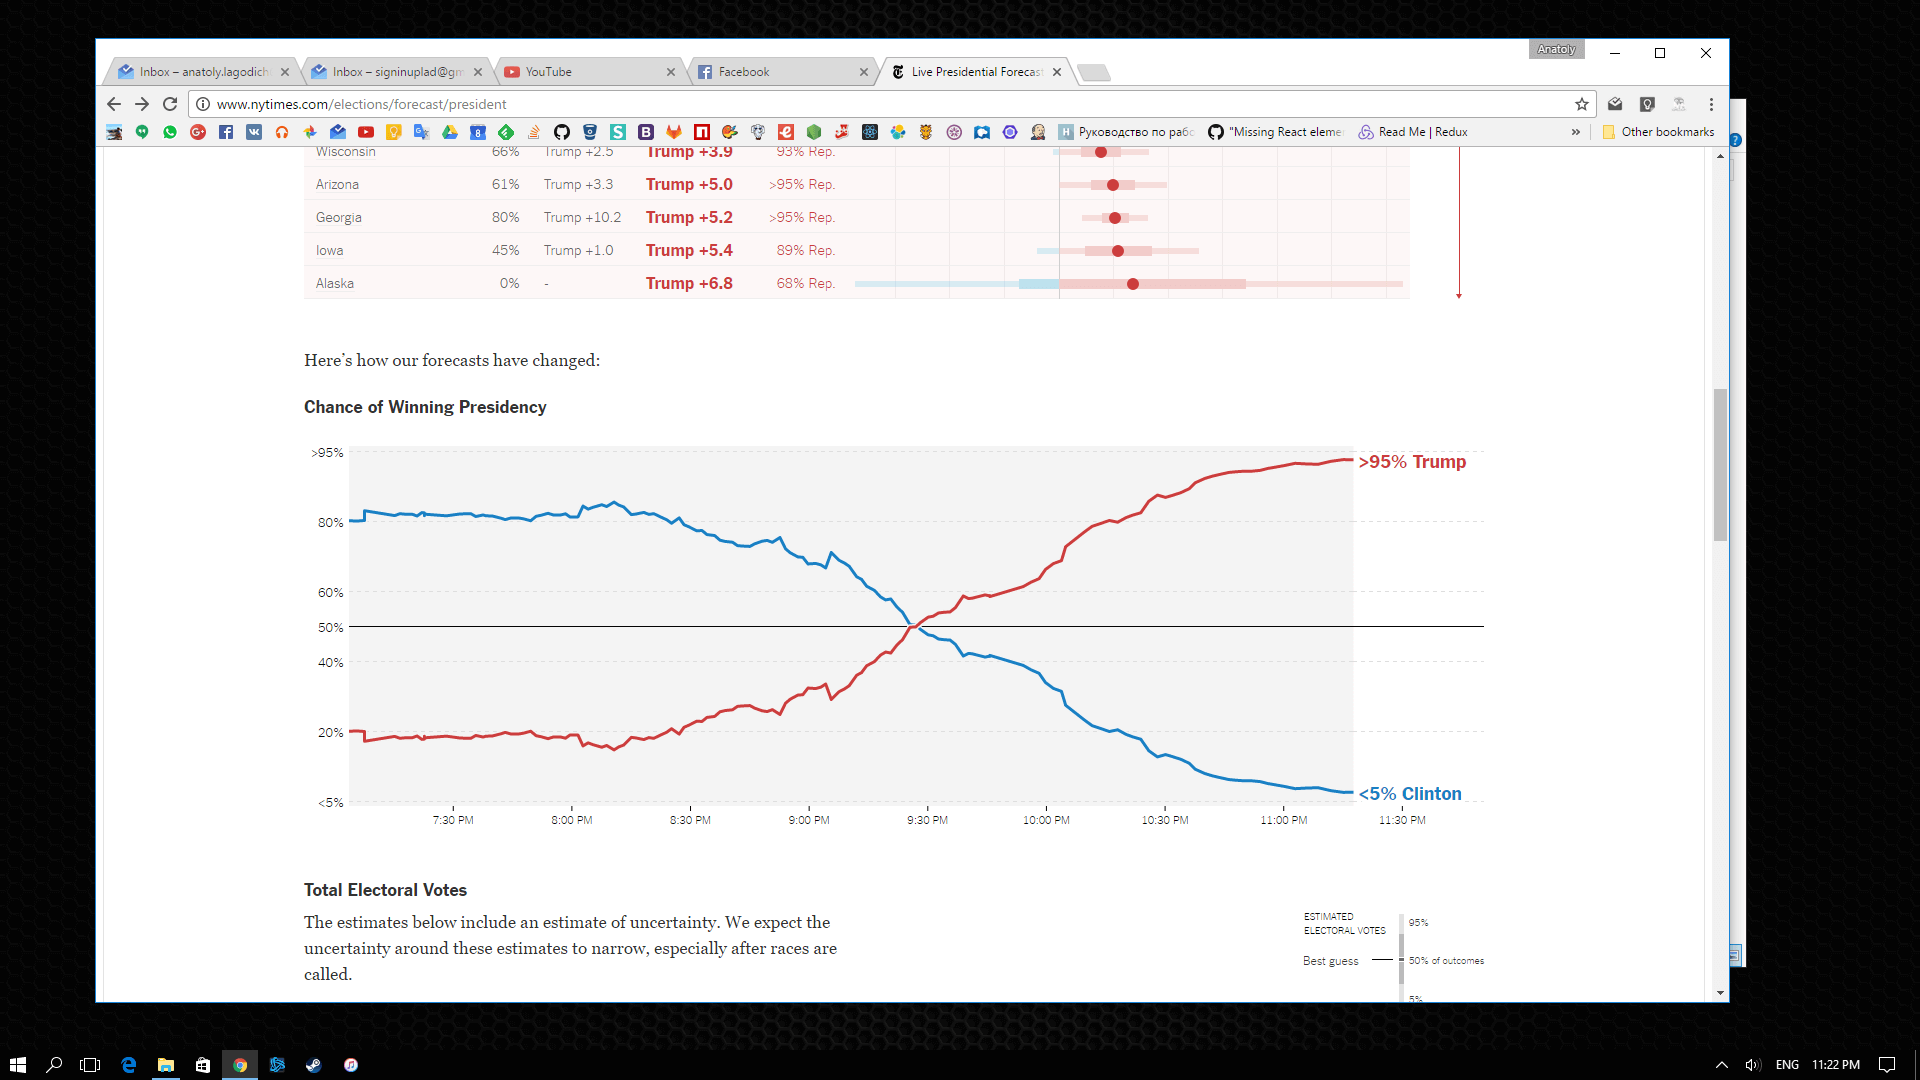
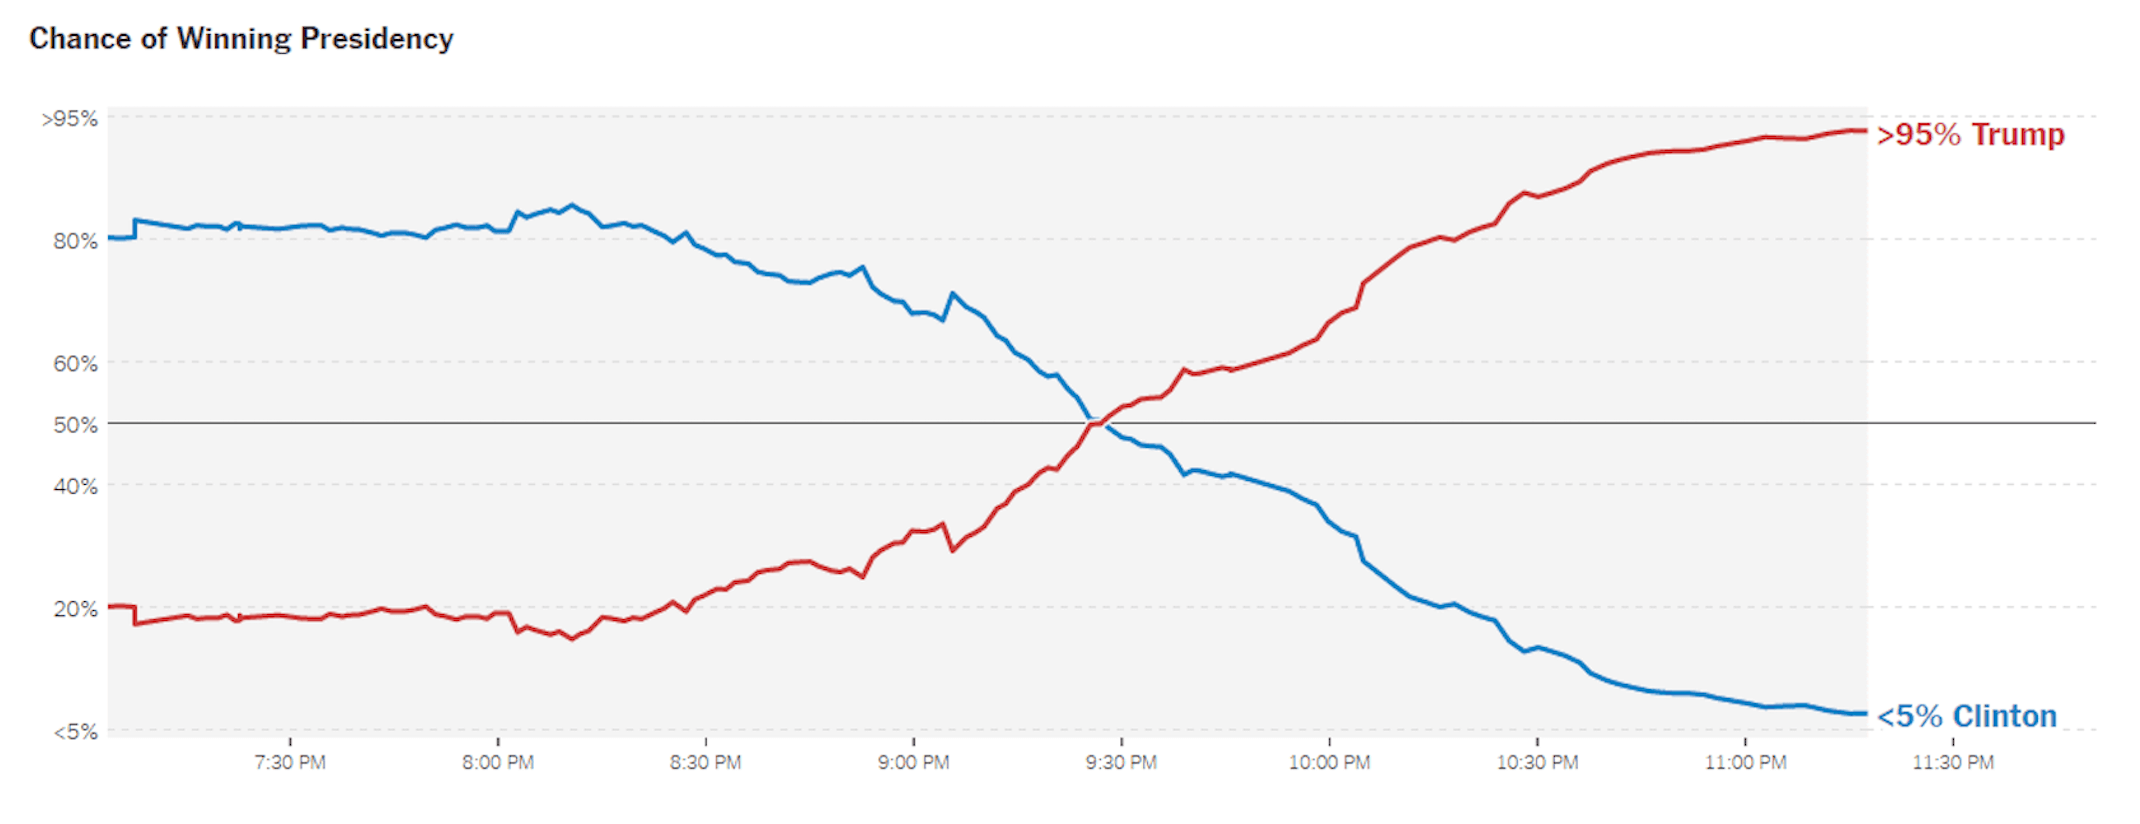
Add us election post

diff --git a/_drafts/2016-12-15-usps.html b/_drafts/2016-12-15-usps.html
@@ -1,15 +1,17 @@
 ---
 title: Американская почта
 ---
-<p>Американская почта не похожа на Российскую, она здесь очень развита, самое главное отличие это доверие, все основано на нем. У каждого отделения есть ключи к подъездаи и когда они привозят посылку, они просто оставляют ее внутри. Довольно странно такое видеть, они не звонят в домофон, просто оставляют и уходят. Все индивидуально для каждого дома, у нас есть специальный замок в стене рядом. Он открывает только первую входную дверь, доступ к почтовым ящикам.</p>
-<p>На почтовых ящиках как правило пишут имена людей проживающих в крватире, он не бросит письмо от гос органа, если на почтовом ящике нет имени, даже если квартира в адресе указана. Чтобы бросил, в адресе должно быть написано: "Имя Фамилия или текущему жильцу", потому что жилец мог поменять место проживания.</p>
-<p>У них очень <a href="https://www.usps.com/" target="_blank">удобный сайт</a>. Кроме стандартных операций тут есть Hold Mail, если вы к примеру в отпуске, можно через сайт или по телефону им сказать чтобы они временно прекратили доставку по адресу для вас. Для этого им не нужно никакого удостоверения личности. Просто звоним, говорим адрес, имя и дату до которой доставлять ничего не нужно. Там говорят "ОК! No problemo!". Кроме этого можно так же по телефону поменять свой адрес, сказать свое имя и куда переехали, и все посылки и письма пойдут по новому адресу с указанием откуда они переадресованы. Еще можно им позвонить и сказать что вашу посылку определенную доставлять не нужно, вы сами заберете ее в удобном вам почтовом отделении.</p>
+<p>В Америке посылки принято оставлять на крыльце или в подъезде. В многоквартиных домах как в России часто есть специальный замок для почтальонов рядом с дверью в стене, который дает доступ в подъезд, а бывают квартиры с входом с улицы, им посылку кладут на крыльцо.</p>
+<p>На почтовых ящиках как правило пишут имена людей проживающих в крватире, почтальон не бросит письмо от гос. органа, если на почтовом ящике нет имени, даже если квартира в адресе указана. Чтобы бросил, в адресе должно быть написано: "Имя Фамилия или текущему жильцу", потому что жилец мог поменять место проживания.</p>
+<p>У государствернной почты очень <a href="https://www.usps.com/" target="_blank">удобный сайт</a>. Кроме стандартных операций тут есть Hold Mail. Eсли вы к примеру в отпуске, можно через сайт или по телефону им сказать чтобы они временно прекратили доставку по вашему адресу. Для этого им не нужно никакого удостоверения личности. Просто звоним, говорим адрес, имя и дату до которой доставлять ничего не нужно. Там говорят "ОК! No problemo!", и отправляют письменное уведомление об этом. Кроме этого можно так же по телефону поменять свой адрес, сказать свое имя и куда переехали, и все посылки и письма пойдут по новому адресу с указанием откуда они переадресованы. Так же можно поменять адрес доставки для определенной посылки или поменять доставку на самовывоз.</p>
 
-<p>Все это звучит странно, такую запрос может сделать кто угодно. Но тем не менее это работает, и никто чужие посылки не трогает.</p>
+<p>Все это звучит странно, такую запрос может сделать кто угодно. Но тем не менее это работает.</p>
 
-<p>Мне один раз пришлось этим воспользоваться, я заказал себе Social Security Card и указал свой будущий адрес, пока жил в отеле. Чтобы его не доставили пока я не переехал, я через пару дней позвонил на почту, объяснил ситуацию, мне сказали что письмо уже у них и они не будут его доставлять пока я не въеду. Все решилось сразу, одним звонком.</p>
+<p>Мне один раз пришлось воспользоваться Hold Mail, я заказал себе Social Security Card и указал свой будущий адрес, пока жил в отеле. Чтобы его не доставили пока я не переехал, я через пару дней позвонил на почту, объяснил ситуацию, мне сказали что письмо уже у них и они не будут его доставлять пока я не въеду. Все решилось сразу, одним звонком.</p>
 
-<p>Существуют другие, коммерческие службы доставки, такие как UPS и FedEx. Многие онлайн магазины ими пользуются и поступат они так же, бросают посылку под дверь и уезжают. Но есть опция запросить подпись при доставке, так делают для дорогих посылок. Если они приехали, а вас дома нет, на двери оставляется бумажка, которую вы можете подписать. Они приедут на следующий день и если вы бумажку подписали, посылка будет оставлена у подъезда. Всего будет три таких попытки доставить посылку.</p><p>Я недавно ждал доставку двух посылок FedEx'ом, обе требовали подписи, и по расписанию они были в разные дни. Первую посылку я ждал, когда они приехали, я упомянул что завтра у меня еще одна доставка судя по расписанию, и спросил, могут ли они вторую оставить тут без подписи, чтобы не ждать, они без проблем согласились и на следующий день в подъезде после работы я нашел свою вторую посылку, видимо кто то из жильцов ее занес внутрь, потому что у FedEx вряд ли есть ключи от подъездов.</p>
+<p>Существуют другие, коммерческие службы доставки, такие как UPS, DHL и FedEx. Многие онлайн магазины ими пользуются и поступат они так же, бросают посылку под дверь и уезжают. Но есть опция запросить подпись при доставке, так делают для дорогих посылок. Если они приехали, а вас дома нет, на двери оставляется бумажка, которую вы можете подписать. Они приедут на следующий день и если вы бумажку подписали, посылка будет оставлена у подъезда. Всего будет три таких попытки доставить посылку.</p>
+
+<p>Все эти службы включая государственную, очень лояльны и доверяют на слово. Я недавно ждал доставку двух посылок FedEx'ом, обе требовали подписи, и по расписанию они были в разные дни. Первую посылку пришлось ждать дома, когда они приехали, я упомянул что завтра у меня еще одна доставка судя по расписанию, и спросил, могут ли они вторую оставить тут без подписи, чтобы не ждать, они без проблем согласились и на следующий день в подъезде после работы я нашел свою вторую посылку, видимо кто то из жильцов ее занес внутрь, потому что у FedEx вряд ли есть ключи от подъездов.</p>
 
 2016/12/15/IMG_1283.JPG
 2016/12/15/IMG_0707.JPG

diff --git a/_posts/2016-11-09-trump.html b/_posts/2016-11-09-trump.html
@@ -1,0 +1,15 @@
+---
+title: Выборы в Америке 2016
+---
+<p>Выборы президента Америки в 2016 году получились скандальными. Два основных кандидата были Hillary Clinton и Donald Trump. Все ТВ каналы, facebook, звезды и публичные личности были за Hillary. В фейсбуке удивило активное участие молодежи, каждый второй пост о том как ужасен Трамп. Известные личности позволяли себе публично оскорблять кандидатов, порой очень смешно - <a href="https://www.youtube.com/results?search_query=drunk+donald+trump+kimmel" target="_blank">Drunk Donald Trump</a>.</p>
+
+<p><a href="https://ru.wikipedia.org/wiki/%D0%9A%D0%BE%D0%BB%D0%BB%D0%B5%D0%B3%D0%B8%D1%8F_%D0%B2%D1%8B%D0%B1%D0%BE%D1%80%D1%89%D0%B8%D0%BA%D0%BE%D0%B2_(%D0%A1%D0%A8%D0%90)" target="_blank">Система выборов в Америке</a> не такая как в России. Если простым языком, то тут голосуют штаты, а не жители. Каждый из штатов имеет фиксированное количество голосов, которые он может отдать за кандидата, к примеру у штата калифорния 55 голосов, а у массачусетса всего 12. Население голосует, но решение принимает коллегия выборщиков, как правило оно совпадает с выбором жителей. К примеру если 61.6% жителей калифорнии проголосовали за Хиллари, то все 55 голосов идут за неё. Всего поделено 538 голосов среди 50 штатов, чтобы выиграть, кандидату нужно набрать 270.
+
+<p>9 Ноября настал судный день - сами выборы и подсчет голосов. Длились они почти целые сутки и все замерли в ожидании результатов. Все в начале были уверены в победе Хиллари, но когда появились первые результаты, начали сомневаться. New York Times и Google в реальном времени предоставляли результаты подсчета голосов, со всякими инструментами анализа и прогноза. Вот так выглядел график ожиданий, поменялся он радикально, прогноз победы Хиллари упал с 80% до 5%.</p>
+<carousel data-items='[
+"2016/11/09/1.png",
+"2016/11/09/2.png"
+]'></carousel>
+<p>Финальный результат на восточном побережье узнали только под утро, выйграл Трамп.</p>
+<google-photo data-src="2016/11/09/IMG_1028.PNG"></google-photo>
+<p>Не смотря на то что больше людей проголосовало за Hillary, штаты отдали больше голосов за Трампа.</p>
